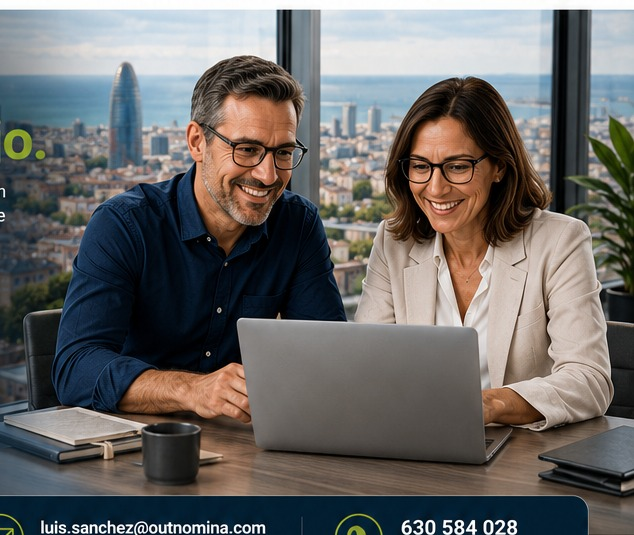
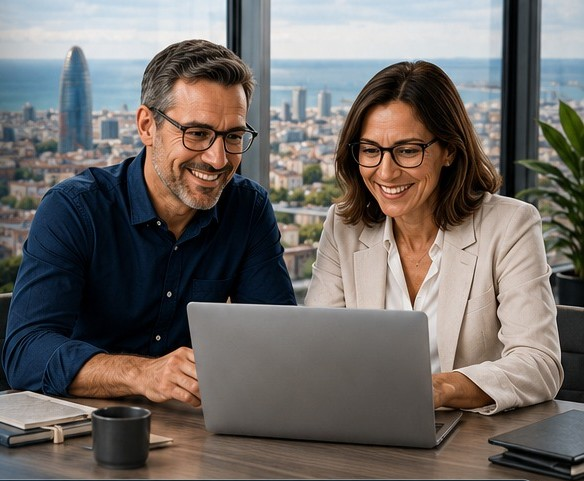
Add files via upload

diff --git a/index.html b/index.html
@@ -20,11 +20,11 @@
 <div class="card"><div class="ic">▦</div><h3>Gestión de Nómina</h3><p>Gestión integral de nóminas, asegurando precisión, cumplimiento y puntualidad en todos los procesos.</p></div>
 <div class="card"><div class="ic">▤</div><h3>Optimización de procesos de Payroll</h3><p>Análisis, mejora y optimización de los procesos de Payroll para empresas y despachos, con una gestión más eficiente, ágil y segura.</p></div>
 <div class="card"><div class="ic">◉</div><h3>Consultoría y asesoramiento laboral</h3><p>Asesoramiento especializado para empresas y despachos en materia laboral, con soluciones adaptadas a cada necesidad.</p></div>
-<div class="card"><div class="ic">✓</div><h3>Seguridad Social y gestión laboral</h3><p>Seguridad Social, SILTRA, contratos de trabajo, Contrat@, Certificados de Empresa y Certific@.</p></div>
+<div class="card"><div class="ic">✓</div><h3>Seguridad Social y gestión laboral</h3><p>Seguridad Social, SILTRA, Contratos de Trabajo, Contrat@, Certificados de Empresa y Certific@.</p></div>
 <div class="card"><div class="ic">↗</div><h3>Cálculos y gestión de incidencias laborales</h3><p>Cálculo de atrasos de convenio y tramitación de accidentes de trabajo y situaciones de incapacidad temporal (IT).</p></div>
 <div class="card"><div class="ic">§</div><h3>Impuestos y planes de pensiones</h3><p>Confección de los modelos 111, 190, 216 y 296, y comunicación de planes de pensiones.</p></div>
 </div></div></section>
-<section class="local-seo"><div class="w"><div class="head"><span class="ey">Área de servicio</span><h2>Outsourcing y externalización de nóminas en Barcelona y área metropolitana</h2><p>Ofrecemos gestión de nóminas, Payroll, outsourcing y externalización de nóminas para empresas y despachos de Barcelona y los 36 municipios del área metropolitana.</p></div><p class="municipios"><strong>Barcelona:</strong> Badalona, Badia del Vallès, Barberà del Vallès, Barcelona, Begues, Castellbisbal, Castelldefels, Cerdanyola del Vallès, Cervelló, Corbera de Llobregat, Cornellà de Llobregat, El Papiol, El Prat de Llobregat, Esplugues de Llobregat, Gavà, L'Hospitalet de Llobregat, La Palma de Cervelló, Molins de Rei, Montcada i Reixac, Montgat, Pallejà, Ripollet, Sant Adrià de Besòs, Sant Andreu de la Barca, Sant Boi de Llobregat, Sant Climent de Llobregat, Sant Cugat del Vallès, Sant Feliu de Llobregat, Sant Joan Despí, Sant Just Desvern, Sant Vicenç dels Horts, Santa Coloma de Cervelló, Santa Coloma de Gramenet, Tiana, Torrelles de Llobregat y Viladecans.</p></div></section><section class="about"><div class="w ag"><div><span class="ey">Experiencia y cercanía</span><h2>Experiencia y cercanía a tu lado</h2><p>Outnomina ofrece gestión laboral profesional con una relación directa y cercana. Más de 30 años de experiencia en gestión laboral para ayudarte a mantener tus obligaciones al día.</p></div><div class="points"><div class="point"><b>Precisión</b><span>Atención al detalle en la gestión laboral.</span></div><div class="point"><b>Confidencialidad</b><span>Tratamiento responsable de la información.</span></div><div class="point"><b>Atención directa</b><span>Comunicación clara y cercana.</span></div><div class="point"><b>Actualización laboral</b><span>Seguimiento de cambios que afectan a nóminas y condiciones laborales.</span></div></div></div></section>
+<section class="local-seo"><div class="w"><div class="head"><span class="ey">Área de servicio</span><h2>Barcelona y área metropolitana</h2><p>Ofrecemos servicios de Payroll, gestión y externalización de nóminas para empresas y despachos de toda España, con especial atención a Barcelona y su área metropolitana.</p></div><p class="municipios">Barcelona · Hospitalet de Llobregat · Badalona · Sant Cugat del Vallès · Sabadell · Terrassa · Cornellà · El Prat de Llobregat · Castelldefels · Gavà · Viladecans · Sant Just Desvern · Esplugues · Sant Joan Despí · Santa Coloma de Gramenet · Cerdanyola del Vallès · Rubí · Sant Feliu de Llobregat · y otros municipios del área metropolitana.</p></div></section><section class="about"><div class="w ag"><div><span class="ey">Experiencia y cercanía</span><h2>Experiencia y cercanía a tu lado</h2><p>Outnomina ofrece gestión laboral profesional con una relación directa y cercana. Más de 30 años de experiencia en gestión laboral para ayudarte a mantener tus obligaciones al día.</p></div><div class="points"><div class="point"><b>Precisión</b><span>Atención al detalle en la gestión laboral.</span></div><div class="point"><b>Confidencialidad</b><span>Tratamiento responsable de la información.</span></div><div class="point"><b>Atención directa</b><span>Comunicación clara y cercana.</span></div><div class="point"><b>Actualización laboral</b><span>Seguimiento de cambios que afectan a nóminas y condiciones laborales.</span></div></div></div></section>
 <section class="promo"><div class="w"><div><h2>Empieza con un <strong>25% de descuento</strong></h2><p>Promoción para nuevos clientes durante los primeros 6 meses.</p></div><a class="btn p" href="#contacto">Quiero aprovechar la promoción</a></div></section>
 <section id="contacto" class="contact"><div class="w"><h2>Hablemos de tu gestión laboral</h2><p>Cuéntanos qué necesitas y te explicamos cómo podemos ayudarte.</p><div class="contact-layout"><div class="cg">
 <div class="cb"><small>Teléfono</small><a href="tel:+34630584028">630 584 028</a><span>Llámame directamente</span></div>
